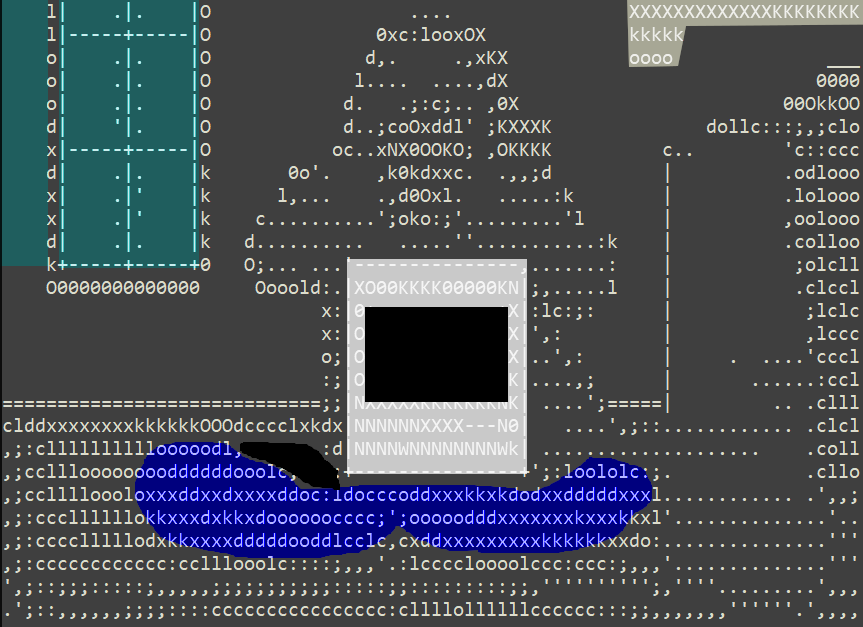
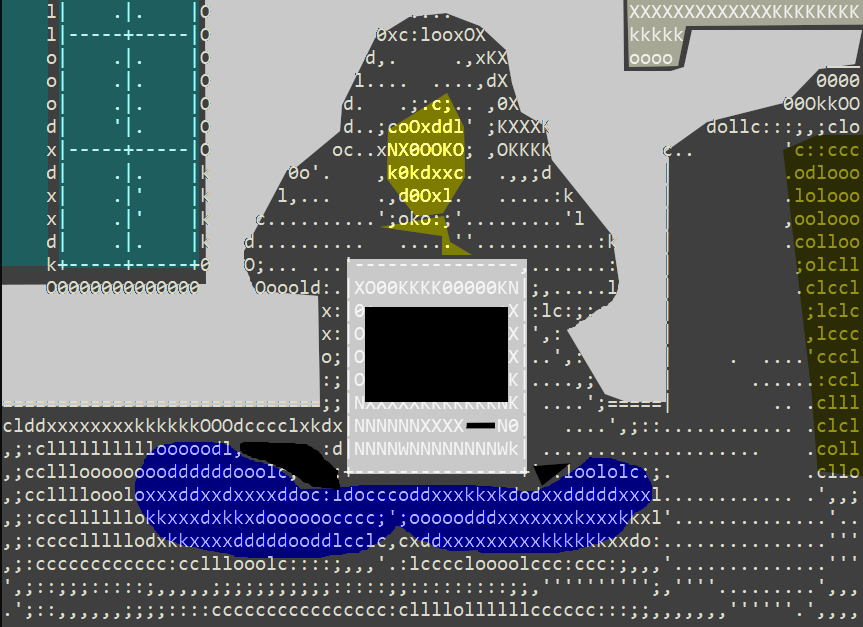
tim cook

diff --git a/java/src/main/java/org/kd/goodjob/Scene4JobsReturn.java b/java/src/main/java/org/kd/goodjob/Scene4JobsReturn.java
@@ -17,7 +17,7 @@ public final class Scene4JobsReturn extends Scene {
 
     public static final long START_FRAME = Scene3Typewriter.START_FRAME + 929;
     private SpriteBatch batch4;
-    private Sprite comebackPic, jobs, mac1, mac2, wallpaper;
+    private Sprite comebackPic, jobs, mac1, mac2, wallpaper, timCook, timCookAscii;
     private Texture tombstone, iMac, iPod, iPad, iPhone, appleTV, aplleWatch, iCloud;
     private GradientLines backgroundLinesTrick;
     private AlphabetScroll scroll;
@@ -52,6 +52,9 @@ public final class Scene4JobsReturn extends Scene {
         var wallpaperY = H / 2f - wallpaperTexture.getHeight() / 2f;
         wallpaper = new Sprite(wallpaperTexture);
         wallpaper.setPosition(wallpaperX, wallpaperY);
+
+        timCookAscii = new Sprite(new Texture("good-job/JobsComeback/timCookAscii.png"));
+        timCook = new Sprite(new Texture("good-job/JobsComeback/timCook.png"));
 
         this.tombstone = new Texture("good-job/tombstone/tombstone.png");
         this.iMac = new Texture("good-job/iMac.png");
@@ -126,12 +129,17 @@ public final class Scene4JobsReturn extends Scene {
 
     private void drawWatchTvCloud(int W, int H) {
         batch4.end();
-        if (getRelativeFrame() > 4100) this.backgroundLinesTrick.draw(6);
+        if (getRelativeFrame() > 3900) this.backgroundLinesTrick.draw(6);
         batch4.begin();
-        if (getRelativeFrame() > 4100) {
+        if (getRelativeFrame() > 3900) {
             wallpaper.draw(batch4);
-
-            if (4341 < getRelativeFrame() && getRelativeFrame() < 4380)
+            if (4000 < getRelativeFrame() && getRelativeFrame() < 4200) {
+                timCookAscii.draw(batch4);
+                timCookAscii.setPosition(-timCookAscii.getWidth()/2f + W/2f, -timCookAscii.getHeight()/2 + H/2f);
+            } else if (4250 < getRelativeFrame()) {
+                timCook.setPosition(-timCook.getWidth()/2f + W/2f, -timCook.getHeight()/2 - H/2f);
+                timCook.draw(batch4);
+            } else if (4300 < getRelativeFrame() && getRelativeFrame() < 4380)
                 batch4.draw(aplleWatch, W / 2f - aplleWatch.getWidth() / 2f, H / 3.95f);
             else if (4381 < getRelativeFrame() && getRelativeFrame() < 4441)
                 batch4.draw(appleTV, W / 2f - appleTV.getWidth() / 2f, H / 3.95f);
